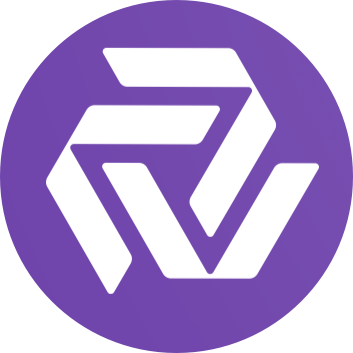
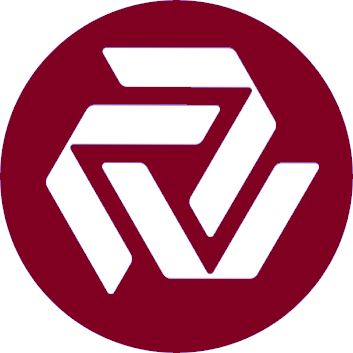
Changed main page design

diff --git a/components/Approach.tsx b/components/Approach.tsx
@@ -6,8 +6,8 @@ import { CanvasRevealEffect } from "./ui/CanvasRevealEffect";
 const Approach = () => {
   return (
     <section className="w-full py-20">
-      <h1 className="heading text-purple">
-        What else will you get <span className="text-purple">using LeadAI?</span>
+      <h1 className="heading text-black">
+        What else will you get <span className="text-black">using LeadAI?</span>
       </h1>
       {/* remove bg-white dark:bg-black */}
       <div className="my-20 flex flex-col lg:flex-row items-center justify-center w-full gap-4">
@@ -20,18 +20,18 @@ const Approach = () => {
           <CanvasRevealEffect
             animationSpeed={5.1}
             // add these classed for the border rounded overflowing -> rounded-3xl overflow-hidden
-            containerClassName="bg-emerald-900 rounded-3xl overflow-hidden"
+            containerClassName="bg-red-900 rounded-3xl overflow-hidden"
           />
         </Card>
         <Card
-          title="Don't know where to go or where is best for you to live?"
+          title="Don't know where to go or where is best for you to study?"
           icon={<AceternityIcon order="Free country selection" />}
           des="Then take a survey from our Leader and find out where it is better for you to study"
         >
           <CanvasRevealEffect
             animationSpeed={3}
             // change bg-black to bg-pink-900
-            containerClassName="bg-pink-900 rounded-3xl overflow-hidden"
+            containerClassName="bg-black rounded-3xl overflow-hidden"
             colors={[
               // change the colors of the
               [255, 166, 158],
@@ -50,7 +50,7 @@ const Approach = () => {
         >
           <CanvasRevealEffect
             animationSpeed={3}
-            containerClassName="bg-sky-600 rounded-3xl overflow-hidden"
+            containerClassName="bg-red-900 rounded-3xl overflow-hidden"
             colors={[[125, 211, 252]]}
           />
         </Card>
@@ -81,12 +81,10 @@ const Card = ({
       // change h-[30rem] to h-[35rem], add rounded-3xl
       className="border border-black/[0.2] group/canvas-card flex items-center justify-center
        dark:border-white/[0.2]  max-w-sm w-full mx-auto p-4 relative lg:h-[35rem] rounded-3xl "
-      style={{
-        //   add these two
-        //   you can generate the color from here https://cssgradient.io/
-        background: "rgb(203, 172, 249)",
+       style={{
+        background: "rgb(128, 0, 32)",
         backgroundColor:
-          "linear-gradient(90deg, rgba(4,7,29,1) 0%, rgba(12,14,35,1) 100%)",
+          "linear-gradient(90deg, rgba(128, 0, 32, 1) 0%, rgba(80, 0, 20, 1) 100%)",
       }}
     >
       {/* change to h-10 w-10 , add opacity-30  */}
@@ -137,45 +135,23 @@ const Card = ({
     </div>
   );
 };
-// add order prop for the Phase number change
+
 const AceternityIcon = ({ order }: { order: string }) => {
   return (
     <div>
-      {/* this btn is from https://ui.aceternity.com/components/tailwindcss-buttons border magic */}
-      {/* change rounded-lg, text-purple px-5 py-2 */}
-      {/* remove focus:outline-none focus:ring-2 focus:ring-slate-400 focus:ring-offset-2 focus:ring-offset-slate-50 cuz we don't need to focus */}
-      {/* remove text-sm font-medium h-12 , add font-bold text-2xl */}
-      <button className="relative inline-flex overflow-hidden rounded-full p-[1px] ">
+      <button className="relative inline-flex overflow-hidden rounded-full p-[1px]">
         <span
           className="absolute inset-[-1000%] animate-[spin_2s_linear_infinite]
-         bg-[conic-gradient(from_90deg_at_50%_50%,#E2CBFF_0%,#393BB2_50%,#E2CBFF_100%)]"
+         bg-[conic-gradient(from_90deg_at_50%_50%,#FFFFFF_0%,#CCCCCC_50%,#FFFFFF_100%)]"
         />
         <span
           className="inline-flex h-full w-full cursor-pointer items-center 
-        justify-center rounded-full bg-slate-950 px-5 py-2 text-purple backdrop-blur-3xl font-bold text-2xl"
+        justify-center rounded-full bg-slate-950 px-5 py-2 text-white backdrop-blur-3xl font-bold text-2xl"
         >
           {order}
         </span>
       </button>
     </div>
-    // remove the svg and add the button
-    // <svg
-    //   width="66"
-    //   height="65"
-    //   viewBox="0 0 66 65"
-    //   fill="none"
-    //   xmlns="http://www.w3.org/2000/svg"
-    //   className="h-10 w-10 text-black dark:text-white group-hover/canvas-card:text-white "
-    // >
-    //   <path
-    //     d="M8 8.05571C8 8.05571 54.9009 18.1782 57.8687 30.062C60.8365 41.9458 9.05432 57.4696 9.05432 57.4696"
-    //     stroke="currentColor"
-    //     strokeWidth="15"
-    //     strokeMiterlimit="3.86874"
-    //     strokeLinecap="round"
-    //     style={{ mixBlendMode: "darken" }}
-    //   />
-    // </svg>
   );
 };
 

diff --git a/components/Hero.tsx b/components/Hero.tsx
@@ -16,6 +16,16 @@ const Hero = () => {
 
   return (
     <div className="pb-20 pt-36 relative bg-white">
+      <style jsx>{`
+        .text-burgundy {
+          color: #800020; /* Желаемый цвет бордового */
+        }
+
+        .tilted-image {
+          transform: rotate(-355deg); /* Наклонить изображение на -5 градусов */
+          margin-top: -50px; /* Отодвинуть изображение вверх на 20 пикселей */
+        }
+      `}</style>
       <div className="flex justify-between items-center w-full px-10 absolute top-4 left-0 z-20">
         <div className="flex items-center">
           <img src="/logo1.png" alt="Logo" className="h-16" />
@@ -52,7 +62,7 @@ const Hero = () => {
         <div className="max-w-[89vw] md:max-w-2xl lg:max-w-[60vw] flex flex-col items-start justify-center">
           <TextGenerateEffect
             words="Prepare for IELTS quickly and for free without registration"
-            className="text-left text-[40px] md:text-5xl lg:text-6xl"
+            className="text-left text-[40px] md:text-5xl lg:text-6xl text-burgundy"
           />
           <a href="#recent-projects" className="scroll-smooth mt-10">
             <MagicButton
@@ -63,8 +73,8 @@ const Hero = () => {
             />
           </a>
         </div>
-        <div className="hidden md:flex items-center justify-center">
-          <img src="/path/to/phone-image.png" alt="Phone with App" className="max-h-[80vh]" />
+        <div className="hidden md:flex items-center justify-center tilted-image">
+          <img src="/phone-image.jpeg" alt="Phone with App" className="max-h-[80vh]" />
         </div>
       </div>
     </div>

diff --git a/data/index.ts b/data/index.ts
@@ -6,16 +6,6 @@ export const navItems = [
 
 export const gridItems = [
   {
-    id: 1,
-    title: "Improve your IELTS score, take the test for free and get a score and recommendations in just a few seconds ",
-    description: "",
-    className: "lg:col-span-3 md:col-span-6 md:row-span-4 lg:min-h-[60vh]",
-    imgclassname: "w-48 h-auto",
-    titleClassName: "justify-end",
-    img: "",
-    spareImg: "",
-  },
-  {
     id: 2,
     title: "Study from anywhere in the world",
     description: "",
@@ -26,31 +16,10 @@ export const gridItems = [
     spareImg: "",
   },
   {
-    id: 3,
-    title: "Absolutely free",
-    description: "Without trial period and card binding",
-    className: "lg:col-span-2 md:col-span-3 md:row-span-2",
-    imgClassName: "",
-    titleClassName: "justify-center",
-    img: "",
-    spareImg: "",
-  },
-  {
-    id: 4,
-    title: "Are you ready to take help from AI to prepare for IELTS?",
-    description: "",
-    className: "lg:col-span-2 md:col-span-3 md:row-span-1",
-    imgClassName: "",
-    titleClassName: "justify-start",
-    img: "/grid.svg",
-    spareImg: "/b4.svg",
-  },
-
-  {
     id: 5,
     title: "Don't have time or don't want to pay schools or tutors for IELTS preparation?",
     description: "International English Language Testing System",
-    className: "md:col-span-3 md:row-span-2",
+    className: "md:col-span-3 md:row-span-3",
     imgClassName: "absolute right-0 bottom-0 md:w-96 w-60",
     titleClassName: "justify-center md:justify-start lg:justify-center",
     img: "/robot.png",

diff --git a/components/RecentProjects.tsx b/components/RecentProjects.tsx
@@ -54,16 +54,17 @@ export const projects = [
 const RecentProjects = () => {
   return (
     <section id="recent-projects" className="pt-20 pb-12">
-      <h2 className="text-3xl font-bold text-center mb-8 text-purple">
-        What can LeadAI{" "}
-        <span className="text-purple">offer You?</span>
-      </h2>
+      <h2 className="text-3xl font-bold text-center mb-8 text-black">
+  What can LeadAI{" "}
+  <span className="text-black">offer You?</span>
+</h2>
+
       <div className="grid grid-cols-1 md:grid-cols-2 lg:grid-cols-3 gap-8">
         {projects.map((project) => (
           <Link key={project.id} href={project.link} passHref>
             <div
               className="cursor-pointer transform hover:scale-105 transition-transform duration-300 p-6 rounded-lg shadow-lg"
-              style={{ backgroundColor: "#cbacf9" }}
+              style={{ backgroundColor: "#810021" }}
             >
               <img
                 src={project.img}

diff --git a/components/Experience.tsx b/components/Experience.tsx
@@ -5,9 +5,9 @@ import { Button } from "./ui/MovingBorders";
 const Experience = () => {
   return (
     <div className="py-20 w-full">
-      <h1 className="heading text-purple">
+      <h1 className="heading text-black">
         Leading in IELTS is our immodest name and{" "}
-        <span className="text-purple">here&apos;s why</span>
+        <span className="text-black">here&apos;s why</span>
       </h1>
 
       <div className="w-full mt-12 grid lg:grid-cols-4 grid-cols-1 gap-10">
@@ -17,7 +17,7 @@ const Experience = () => {
             duration={Math.floor(Math.random() * 10000) + 10000}
             borderRadius="1.75rem"
             style={{
-              background: "#cbacf9",
+              background: "#810021",
               borderRadius: "1.75rem",
             }}
             className="flex-1 text-black dark:text-white border-neutral-200 dark:border-slate-800"

diff --git a/app/layout.tsx b/app/layout.tsx
@@ -30,7 +30,7 @@ export default function RootLayout({ children }: RootLayoutProps) {
   return (
     <html lang="en" suppressHydrationWarning>
       <head>
-        <link rel="icon" href="/logo1.png" sizes="any" />
+        <link rel="icon" href="/icon.png" sizes="any" />
         <title>LeadAI - Your AI assistant for IELTS preparation</title>
         <meta name="keywords" content="ielts, prep, preparation, hack, pass, exam, test, ai, hsk, smart, immigration, usa, china, eu, gre, sat, toefl, programming, code, migration, ент, егэ 高考，gaokao, bachelor, undergraduate, university, college"></meta>
         <meta name="description" content="Unleash the potential of AI in IELTS, learn to correctly pass the listening, reading, writing and speaking sections, receive accurate assessments and recommendations from our AI" />

diff --git a/components/ui/TextGenerateEffect.tsx b/components/ui/TextGenerateEffect.tsx
@@ -29,11 +29,12 @@ export const TextGenerateEffect = ({
     return (
       <motion.div ref={scope}>
         {wordsArray.map((word, idx) => {
+          let textColorClass = idx > 3 ? "text-black" : "text-burgundy";
+  
           return (
             <motion.span
               key={word + idx}
-              className={` ${idx > 3 ? "text-black" : "text-black dark:text-black"
-                } opacity-0`}
+              className={` ${textColorClass} opacity-0`}
             >
               {word}{" "}
             </motion.span>
@@ -41,7 +42,7 @@ export const TextGenerateEffect = ({
         })}
       </motion.div>
     );
-  };
+  };  
 
   return (
     <div className={cn("font-bold", className)}>

diff --git a/components/ui/GradientBg.tsx b/components/ui/GradientBg.tsx
@@ -3,8 +3,8 @@ import { cn } from "@/lib/utils";
 import { useEffect, useRef, useState } from "react";
 
 export const BackgroundGradientAnimation = ({
-  gradientBackgroundStart = "rgb(108, 0, 162)",
-  gradientBackgroundEnd = "rgb(0, 17, 82)",
+  gradientBackgroundStart = "rgb(128, 0, 0)",
+  gradientBackgroundEnd = "rgb(64, 0, 0)",
   firstColor = "18, 113, 255",
   secondColor = "221, 74, 255",
   thirdColor = "100, 220, 255",

diff --git a/components/Footer.tsx b/components/Footer.tsx
@@ -19,7 +19,7 @@ const Footer = () => {
       </div>
 
       <div className="flex flex-col items-center">
-        <h1 className="heading lg:max-w-[45vw] text-purple">
+        <h1 className="heading lg:max-w-[45vw] text-black">
           Take IELTS for free right now{" "}
         </h1>
         <p className="text-white-200 md:mt-10 my-5 text-center">

diff --git a/components/ui/BentoGrid.tsx b/components/ui/BentoGrid.tsx
@@ -90,8 +90,8 @@ export const BentoGridItem = ({
       style={{
         //   add these two
         //   you can generate the color from here https://cssgradient.io/
-        background: "#cbacf9",
-        backgroundColor: "#cbacf9",
+        background: "#000000",
+        backgroundColor: "#000000",
       }}
     >
       {/* add img divs */}

diff --git a/components/ui/Globe.tsx b/components/ui/Globe.tsx
@@ -80,7 +80,7 @@ export function Globe({ globeConfig, data }: WorldProps) {
     showAtmosphere: true,
     atmosphereAltitude: 0.1,
     polygonColor: "rgba(255,255,255,0.7)",
-    globeColor: "#1d072e",
+    globeColor: "#810021",
     emissive: "#000000",
     emissiveIntensity: 0.1,
     shininess: 0.9,

diff --git a/components/ui/GridGlobe.tsx b/components/ui/GridGlobe.tsx
@@ -10,7 +10,7 @@ const World = dynamic(() => import("./Globe").then((m) => m.World), {
 const GridGlobe = () => {
   const globeConfig = {
     pointSize: 4,
-    globeColor: "#062056",
+    globeColor: "#810021",
     showAtmosphere: true,
     atmosphereColor: "#FFFFFF",
     atmosphereAltitude: 0.1,
